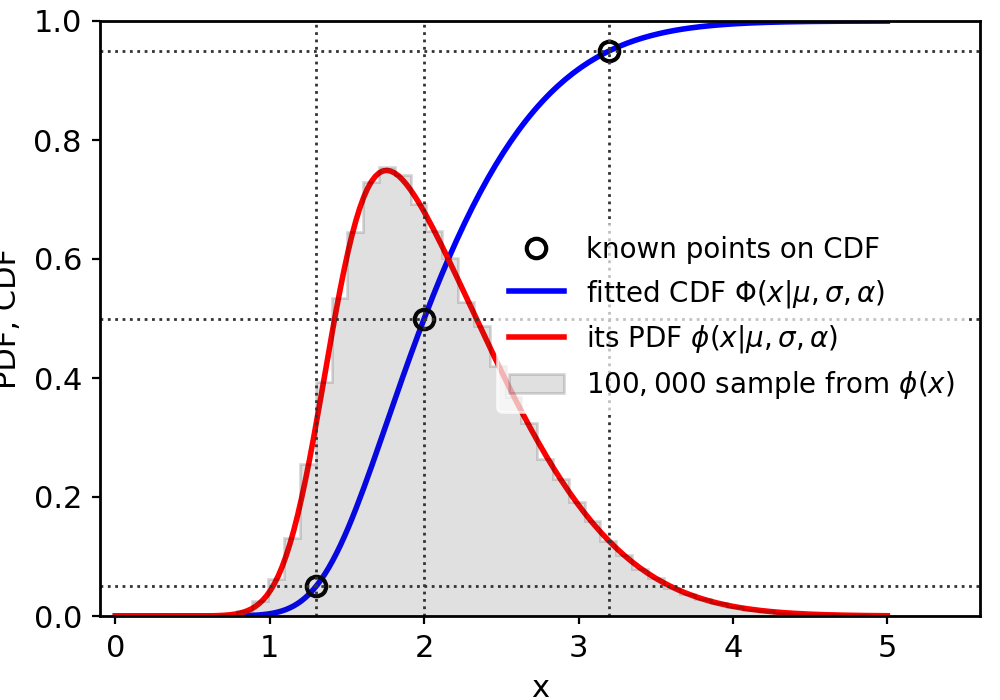
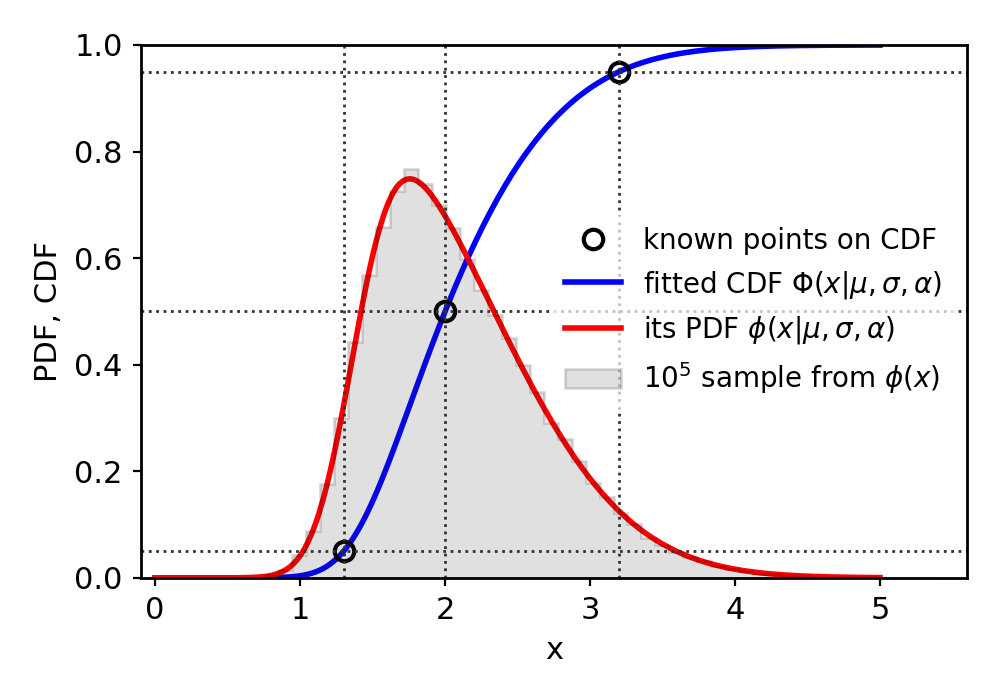
example.py: tight_layout() to fix y-axis cutoff; revert sample-size legend to 10^5

diff --git a/example.py b/example.py
@@ -94,7 +94,7 @@ def plot_skewnorm(mid=2.0, dl=0.7, dr=1.2,
     # Histogram of drawn sample (matplotlib 3.x: density= replaces normed=)
     ax.hist(sample, bins=50, histtype='stepfilled',
             color='0.2', ec='k', alpha=0.15, density=True,
-            label=fr'${int(samplesize):,}$ sample from $\phi(x)$')
+            label=r'$10^5$ sample from $\phi(x)$')
 
     leg = ax.legend(loc='center right', frameon=True)
     leg.get_frame().set_facecolor('w')
@@ -107,6 +107,7 @@ def plot_skewnorm(mid=2.0, dl=0.7, dr=1.2,
     ax.set_ylabel('PDF, CDF')
 
     plt.subplots_adjust(left=0.1, right=0.98, bottom=0.12, top=0.97)
+    plt.tight_layout()
 
     if pdffile:
         print(f"Saving PDF figure to {pdffile}")
